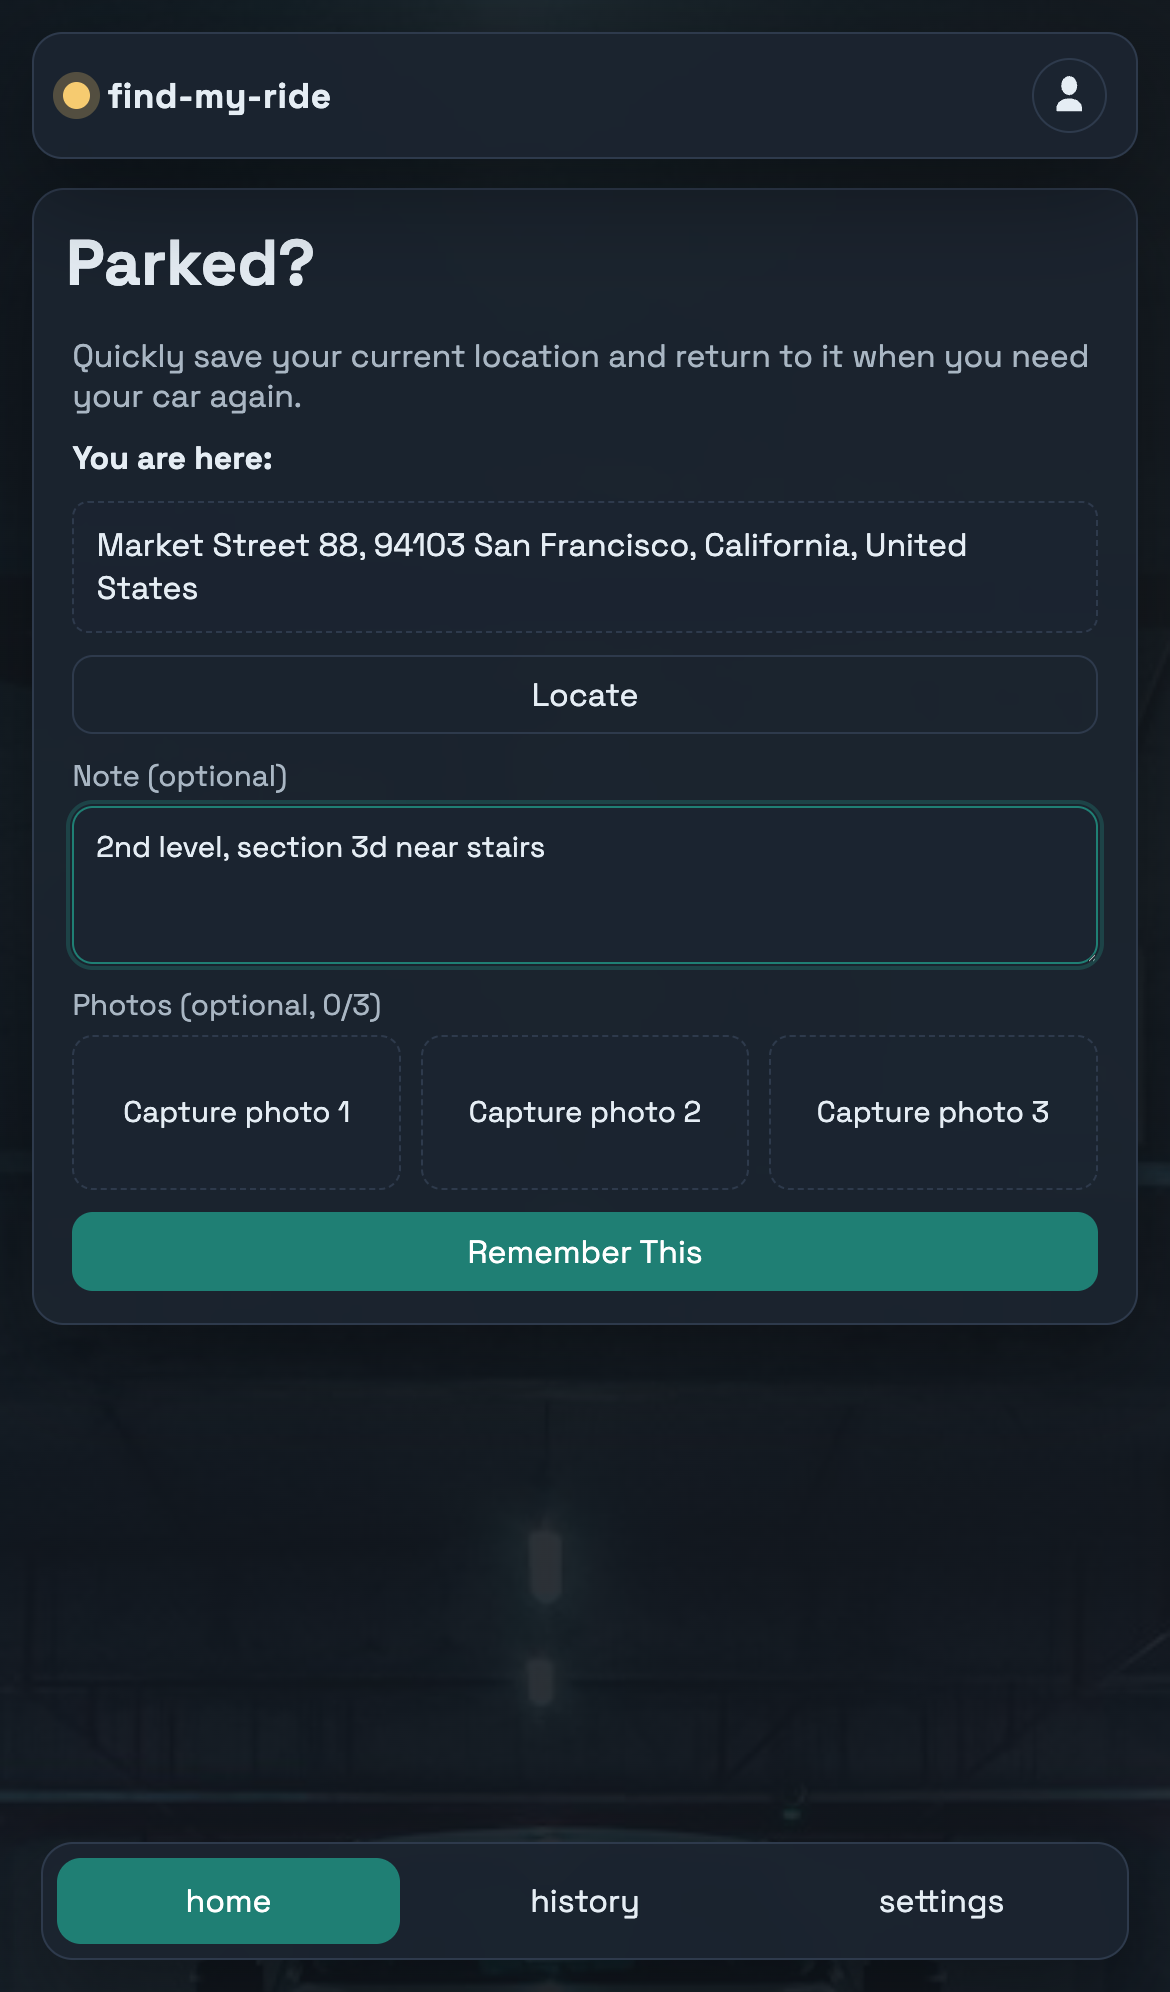
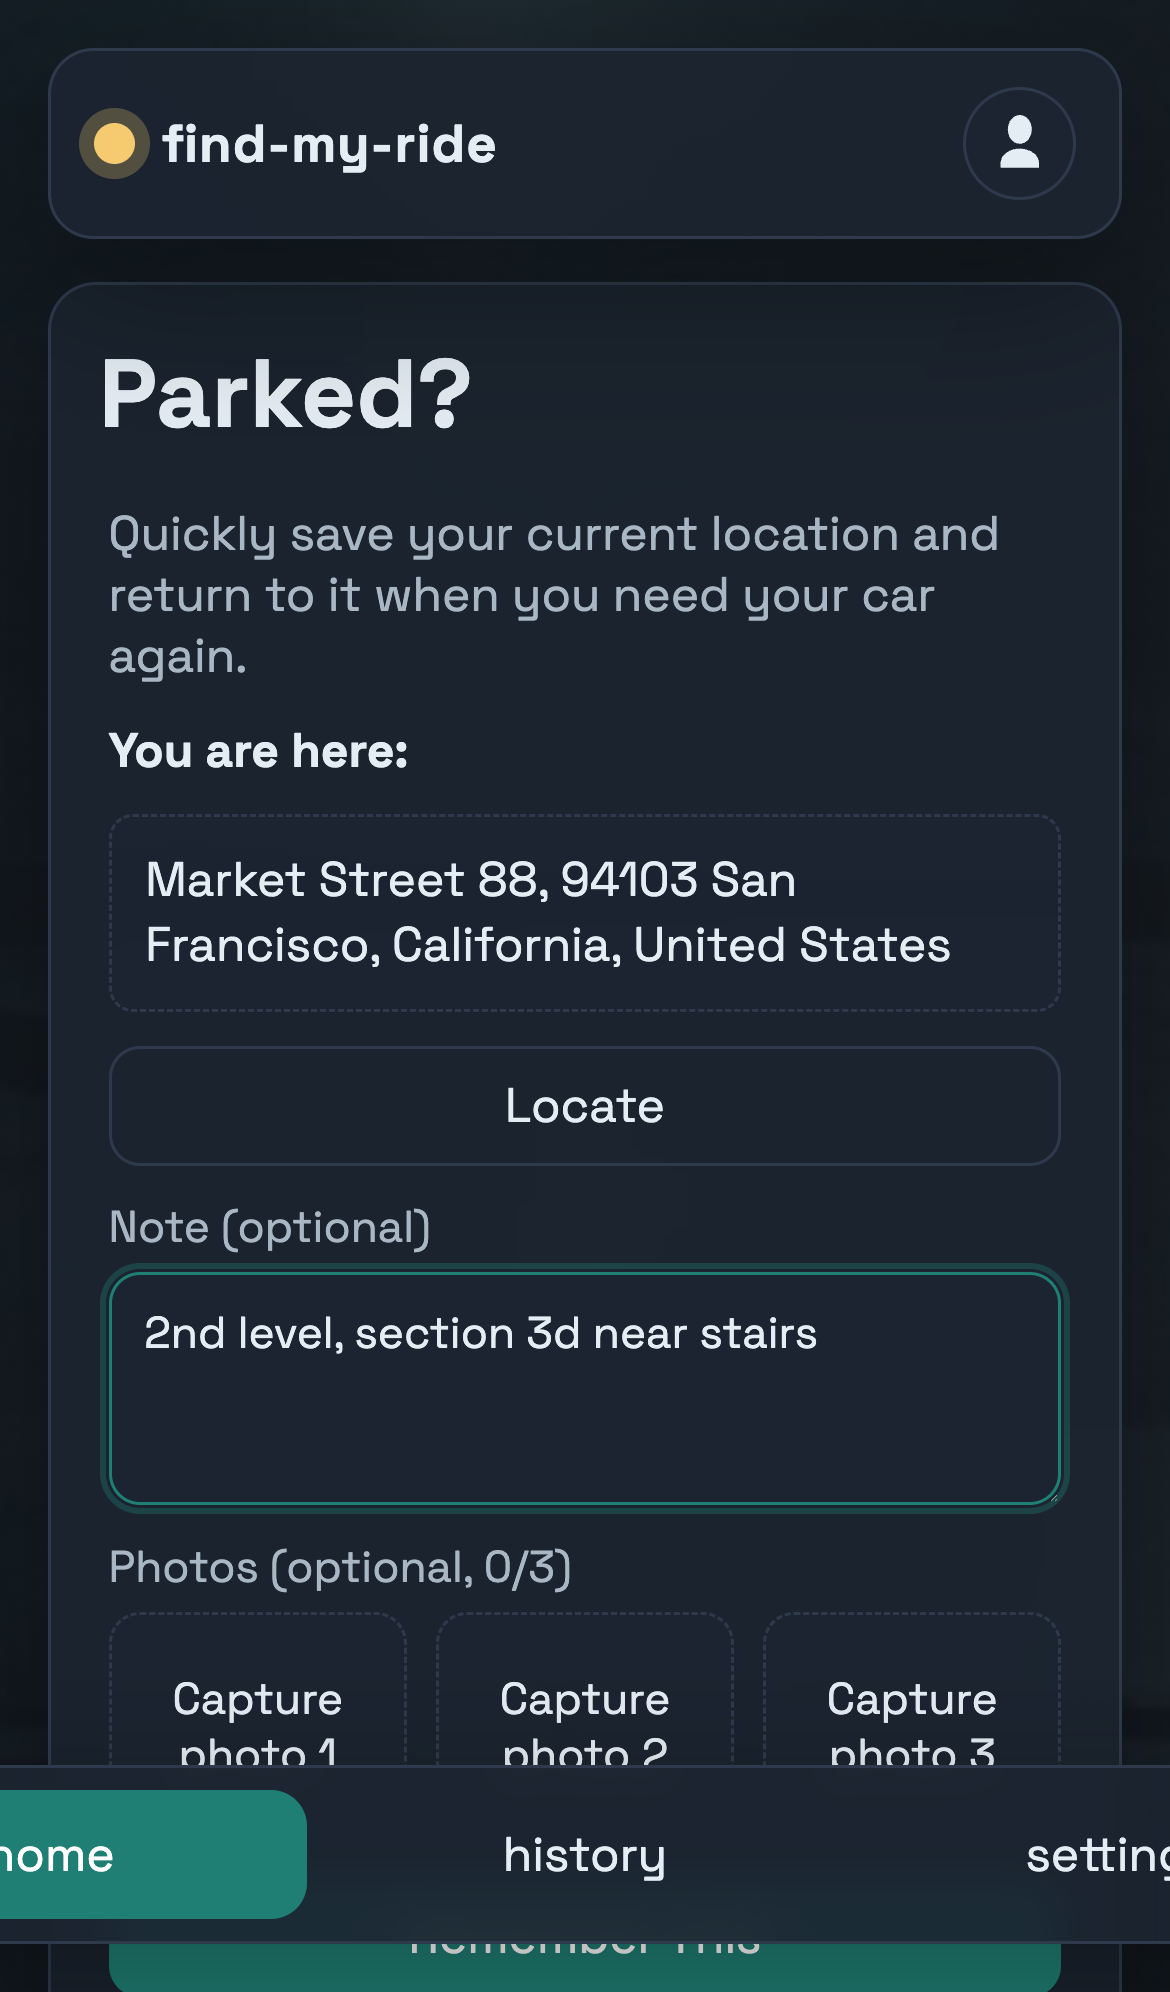
Switch README screenshot workflow to 3.0x zoom and refresh assets

diff --git a/docs/dev-guide.md b/docs/dev-guide.md
@@ -158,7 +158,7 @@ When refreshing README screenshots (`docs/assets/screenshots/home.png`, `history
 
 - Canonical automation: `./scripts/readme-screenshots/refresh.sh`
 - Output format/size: PNG at `1170x1992` for each image.
-- Visual scale: apply `2.0x` page zoom during capture so card text and controls remain readable in the 3-up README gallery.
+- Visual scale: apply `3.0x` page zoom during capture so card text and controls remain readable in the 3-up README gallery.
 - Theme: dark mode (`fmr_theme_mode=dark`) with the default `evergreen` accent.
 - Environment: run against the local Docker stack (`docker compose up -d --build`) on the frontend URL (`http://127.0.0.1:${FRONTEND_PORT}`; current default in this repo is `15173`).
 - Data setup: use the dedicated demo account (`readme_demo` by default, configurable via `README_DEMO_USERNAME`) with at least 3 history rows:

diff --git a/docs/decisions.md b/docs/decisions.md
@@ -236,7 +236,7 @@
 - Details:
   - `refresh.sh` authenticates a demo user, applies deterministic history seed data, and runs the capture script.
   - `seed_history.sql` sets fixed sample rows so `history` capture state remains stable (second row expanded with map and no note/photos).
-  - `capture.mjs` enforces required dimensions (`1170x1992`), theme (`dark` + `evergreen`), and `2.0x` visual zoom.
+  - `capture.mjs` enforces required dimensions (`1170x1992`), theme (`dark` + `evergreen`), and `3.0x` visual zoom.
 
 ## Related docs
 

diff --git a/scripts/readme-screenshots/README.md b/scripts/readme-screenshots/README.md
@@ -6,7 +6,7 @@ This folder keeps the canonical automation for regenerating README screenshot as
 
 - `refresh.sh`: end-to-end workflow (authenticate demo user, seed DB rows, capture screenshots)
 - `seed_history.sql`: deterministic fake history rows used for README captures
-- `capture.mjs`: Playwright capture flow for `home`, `history`, `settings`
+- `capture.mjs`: Playwright capture flow for `home`, `history`, `settings` at `1170x1992` and `3.0x` UI zoom
 
 ## Usage
 
